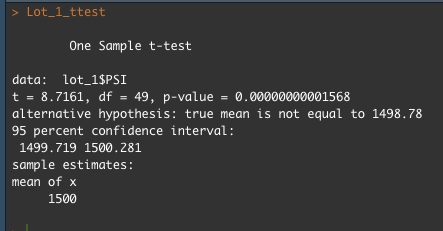
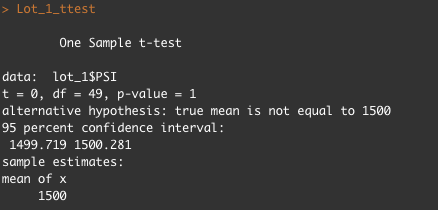
updated images

Changed region(s): [[0.0, 0.0, 1.0, 1.0], [0.1187, 0.1714, 0.4452, 0.2286], [0.0594, 0.9714, 0.089, 1.0]]

diff --git a/README.md b/README.md
@@ -28,3 +28,16 @@ The design specifications for the MechaCar suspension coils dictate that the var
 * Varience across the lots meet the design specifications for two of the three lots. Lot 3 failed with varience at 170.2861224.   
 
 ![Lot_Summary](https://raw.githubusercontent.com/asanchez116/MechaCar_Statistical_Analysis/main/Resources/lot_summary_screenshot.png)
+
+## T-Tests on Suspension Coils
+
+
+![All_Lots_ttest](https://raw.githubusercontent.com/asanchez116/MechaCar_Statistical_Analysis/main/Resources/All_Lots_ttest.png)
+
+
+
+![Lot_1_ttest](https://raw.githubusercontent.com/asanchez116/MechaCar_Statistical_Analysis/main/Resources/Lot_1_ttest.png)
+
+![Lot_2_ttest](https://raw.githubusercontent.com/asanchez116/MechaCar_Statistical_Analysis/main/Resources/lot_2_ttest.png)
+
+![Lot_3_ttest](https://raw.githubusercontent.com/asanchez116/MechaCar_Statistical_Analysis/main/Resources/Lot_3_ttest.png)
